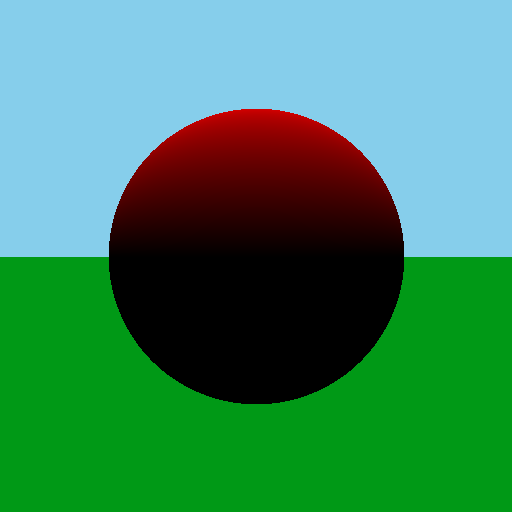
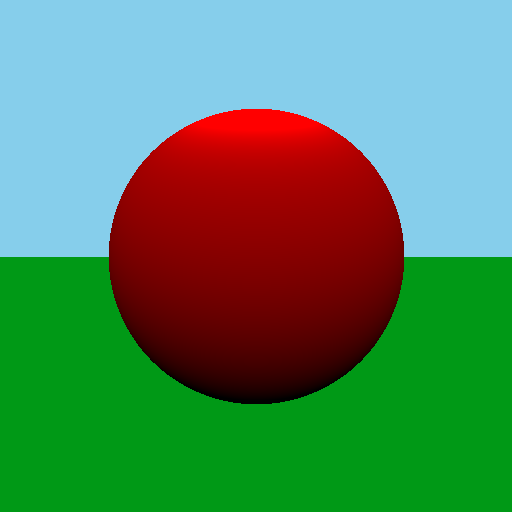
Phong reflective model

Changed region(s): [[0.1875, 0.1875, 0.8125, 0.7812]]

diff --git a/main.cpp b/main.cpp
@@ -1,3 +1,4 @@
+#include <complex>
 #include "image/image.h"
 #include "image/io/png.h"
 #include "geometry/point.h"
@@ -14,12 +15,18 @@ Color shading(
         const geometry::Point& lightOrigin,// TODO: Infinite light sources like "sky"
         const Color& lightColor,// TODO: Multiple light sources
         const Color& materialColor,
-        const float materialDiffusivity
+        const float materialDiffusivity,
+        const float materialReflectivity,
+        const float materialReflectiveExponent,
+        const float ambientLightCoeficient
         )
 {
     auto s = normalize(intersectionPoint - lightOrigin);
     auto n = normalize(surfaceNormal);// TODO: require normalized, reduce duplication
-    return materialColor * lightColor * materialDiffusivity * std::max(dot(s, n), 0.0f);
+    auto r = 2 * dot(s, n) / dot(n, n) * n - s;// Reflected-direction
+    const float lambert = std::max(dot(s, n), 0.0f);
+    const float phong = std::pow(std::max(dot(r, n), 0.0f), materialReflectiveExponent);
+    return materialColor * lightColor * std::min(ambientLightCoeficient + materialDiffusivity * lambert + materialReflectivity * phong, 1.0f);
 }
 
 int main(int /*argc*/, char **/*argv[]*/)
@@ -36,7 +43,7 @@ int main(int /*argc*/, char **/*argv[]*/)
             Sphere(geometry::Point({0.0f, 0.0f, -10.0f}), 5.0f),
     };
 
-    const geometry::Point lightOrigin({0.0, 1000.0, -10.0});
+    const geometry::Point lightOrigin({0.0, 15.0, -20.0});
     const auto lightColor = Colors::White;
 
     auto image = Image(512, 512);
@@ -69,11 +76,15 @@ int main(int /*argc*/, char **/*argv[]*/)
                     auto intersectionPoint = ray(closestIntersection);
                     auto surfaceNormal = getNormal(intersectionPoint, object);
 
-                    const float diffusivity = 1.0;
+                    const float ambientLightCoeficient = 0.00f;
+                    const float materialReflectivity = 0.75;
+                    const float materialReflectiveExponent = 25.0;
+                    const float diffusivity = 0.75;
                     // TODO: Overwrite shading only for closes intersection amongst all the objects !!!
                     color = shading(
                         intersectionPoint, surfaceNormal, cameraOrigin,
-                        lightOrigin, lightColor, colorObject, diffusivity
+                        lightOrigin, lightColor, colorObject,
+                        diffusivity, materialReflectivity, materialReflectiveExponent, ambientLightCoeficient
                     );
                 }
             }

diff --git a/geometry/vector.h b/geometry/vector.h
@@ -33,7 +33,8 @@ namespace geometry {
         std::array<float, 3> data;
     };
 
-    Vector operator+(Vector rhs, const Vector& lhs);
+    Vector operator+(Vector lhs, const Vector& rhs);
+    Vector operator-(Vector lhs, const Vector& rhs);
     Vector operator*(float scale, Vector vector);
     Vector operator*(Vector vector, float scale);
     bool isEqual(const Vector& v1, const Vector& v2, const float precision = 1E-06);

diff --git a/geometry/vector.cpp b/geometry/vector.cpp
@@ -91,6 +91,11 @@ namespace geometry {
         return lhs;
     }
 
+    Vector operator-(Vector lhs, const Vector& rhs) {
+        lhs -= rhs;
+        return lhs;
+    }
+
     Vector operator*(float scale, Vector vector) {
         vector *= scale;
         return vector;
